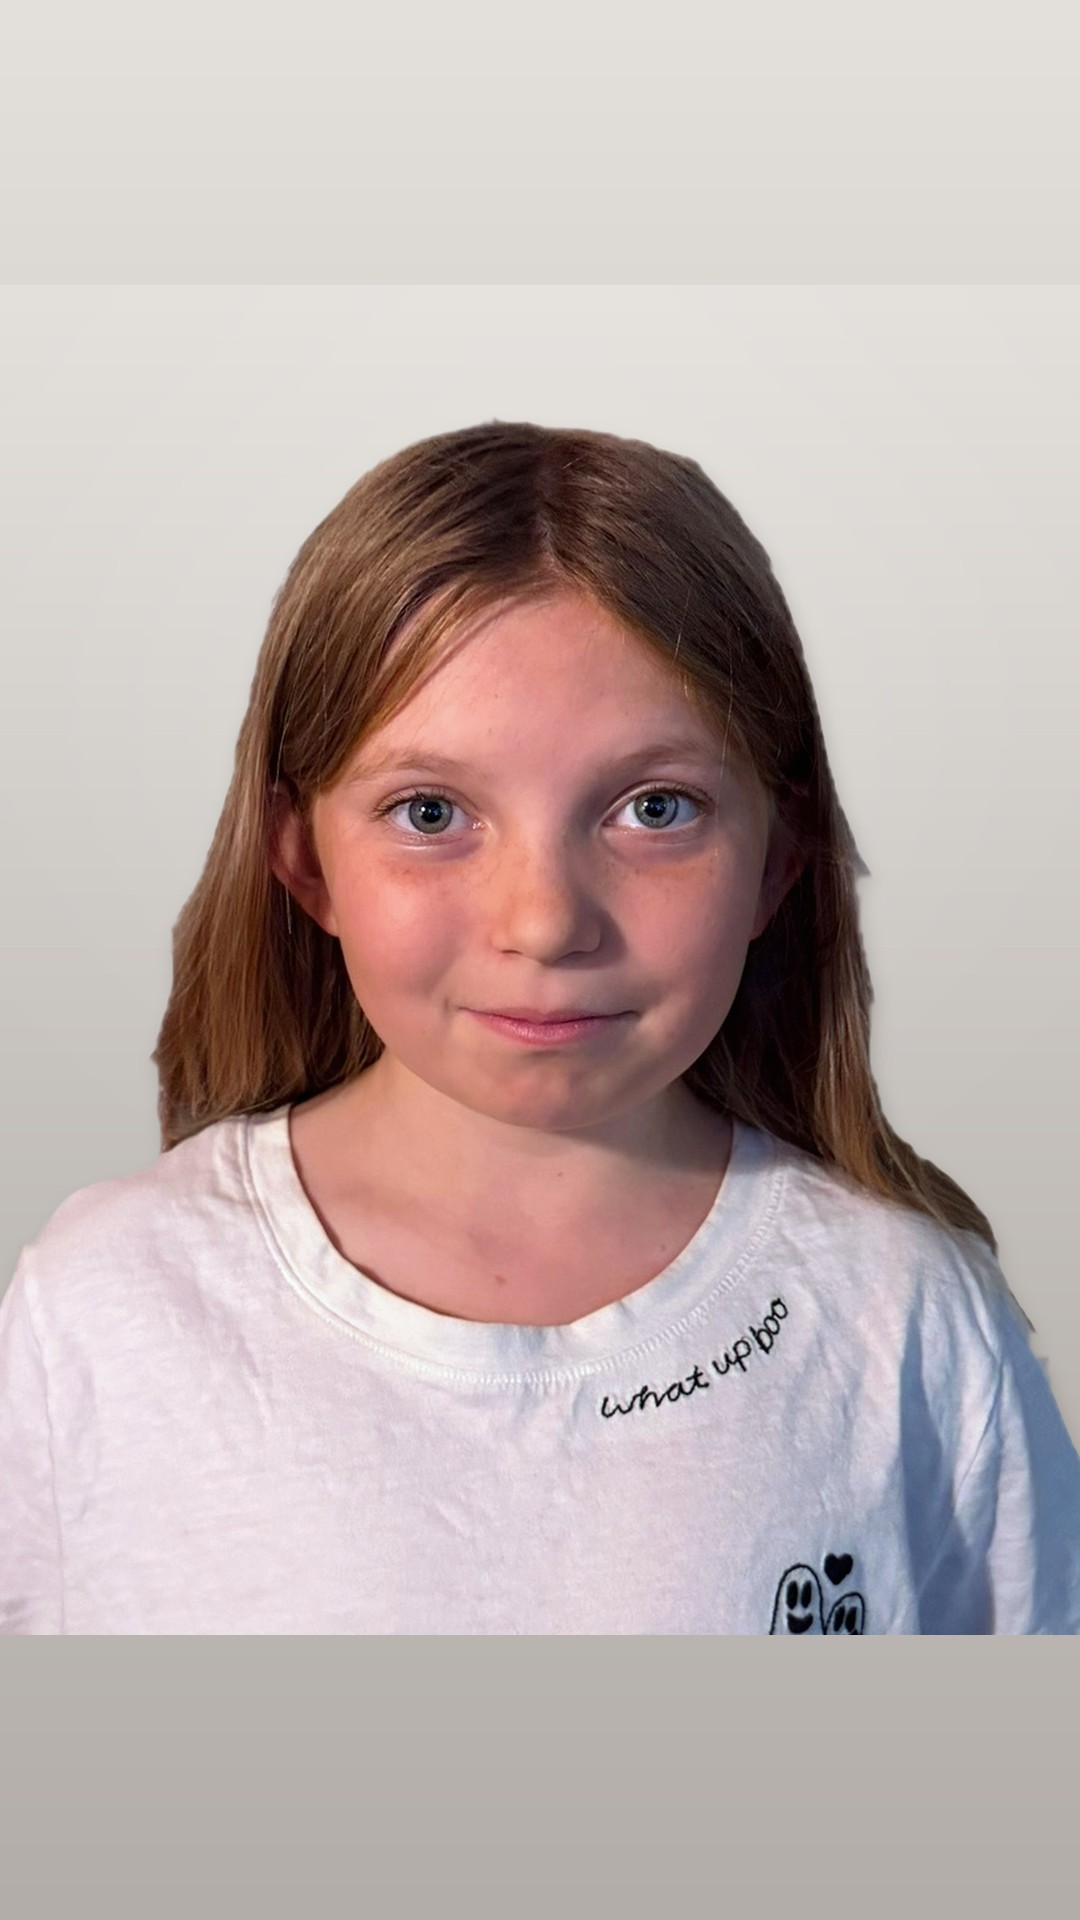
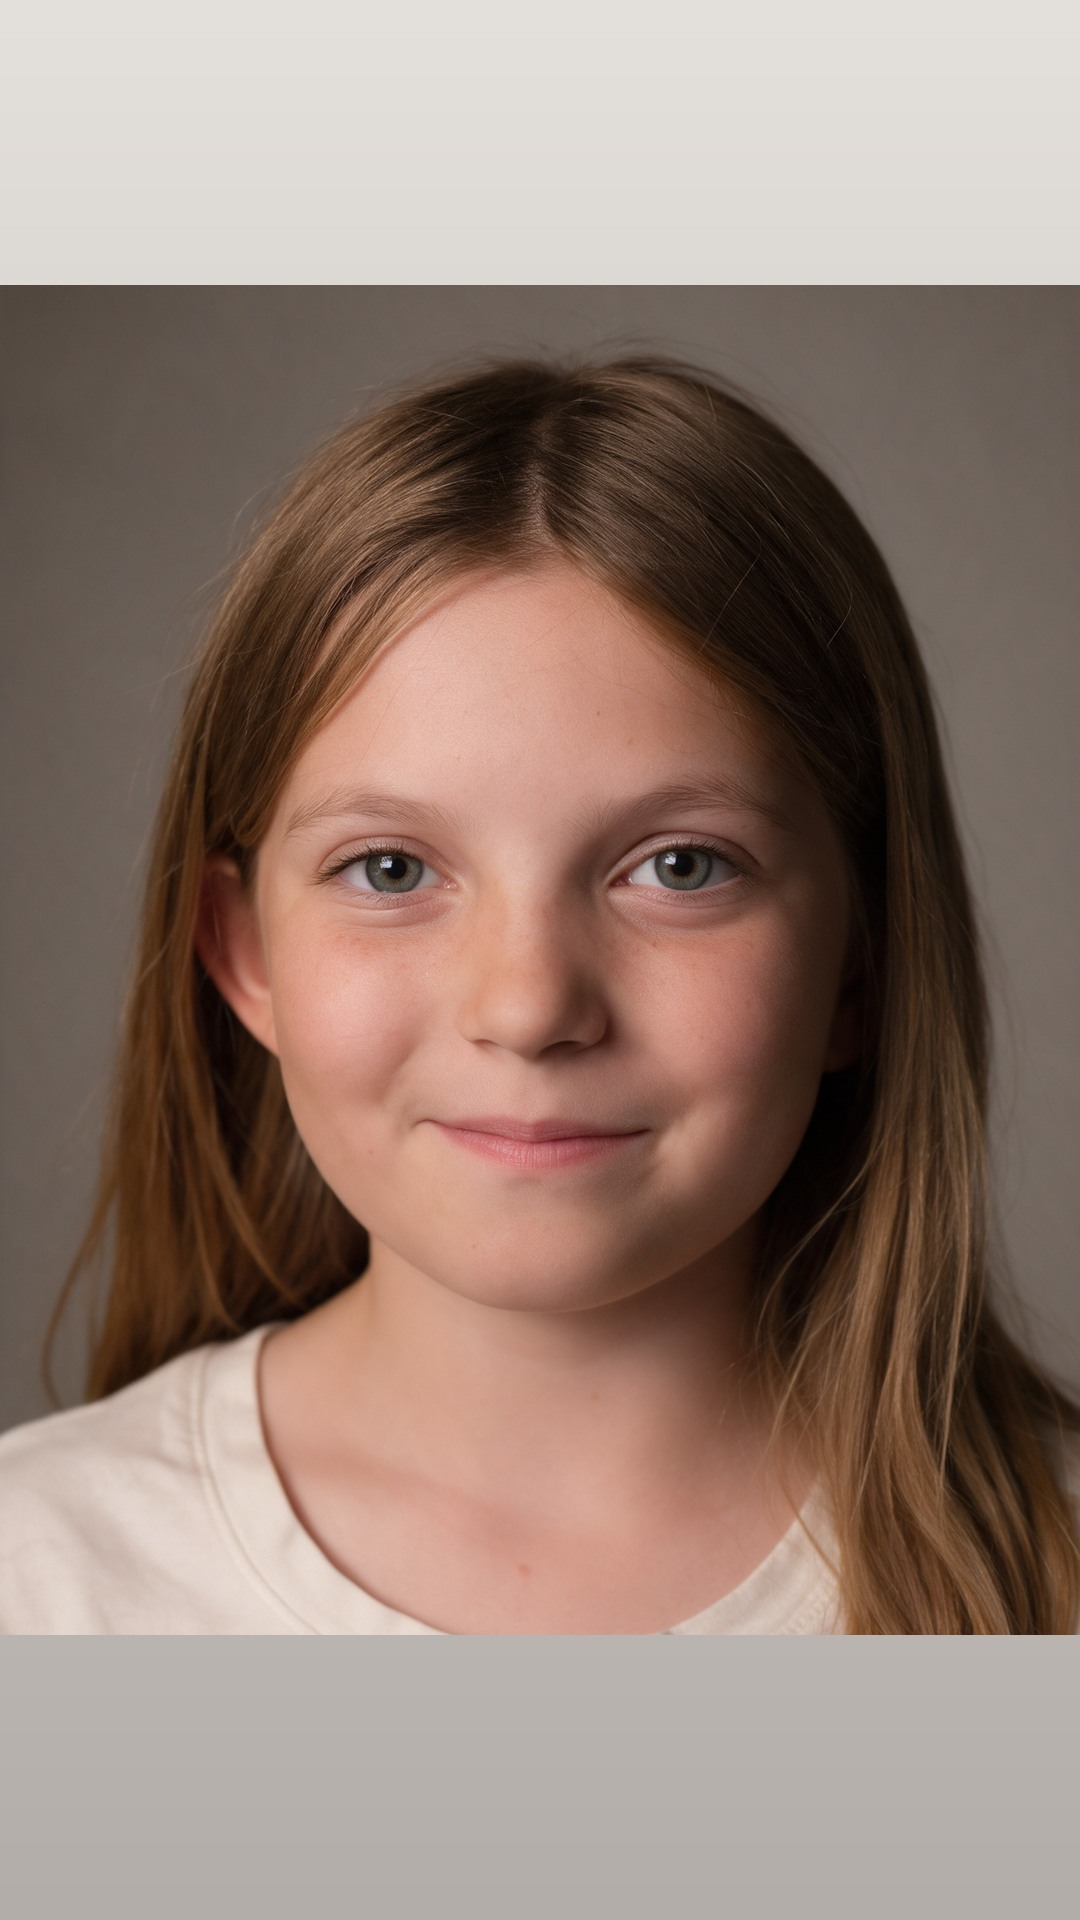
Batch 2: Wynter on camera section, casting profile, studio headshot sitewide
- new 'Wynter on camera' section directly under the hero, featuring the scripted
  Christmas Carol scene with the acting copy and its credit; no empty player
- casting profile block in Experience: name, age, height, hair, eyes, location,
  representation and availability. Union status, permit and Coogan account
  deliberately omitted as unverified
- site primary headshot switched to the studio portrait, matching the resume
- share card rebuilt on the same headshot
- Face and range spacing corrected: narrower headshot, text fills the column
- section numbering and navigation updated for the new section

diff --git a/index.html b/index.html
@@ -32,7 +32,7 @@
 </head>
 <body>
 
-<a class="skip" href="#about">Skip to content</a>
+<a class="skip" href="#oncamera">Skip to content</a>
 
 <header class="topbar" id="topbar">
   <div class="topbar__inner">
@@ -40,6 +40,7 @@
       <img src="assets/img/logo-transparent.png" alt="Wynter Pearce" width="900" height="381">
     </a>
     <nav class="nav" id="primaryNav" aria-label="Sections">
+      <a href="#oncamera">On camera</a>
       <a href="#about">About</a>
       <a href="#skills">Skills</a>
       <a href="#experience">Experience</a>
@@ -116,11 +117,33 @@
     </div>
   </section>
 
+  <!-- ============ WYNTER ON CAMERA ============ -->
+  <section class="band band--ink" id="oncamera">
+    <div class="wrap oncamera">
+      <div class="oncamera__copy reveal">
+        <p class="eyebrow">01 <span class="dot">·</span> On camera</p>
+        <h2 class="display">Wynter on camera</h2>
+        <p class="lede">From live theatre to on-camera storytelling, Wynter brings expressive performances, natural comedic timing, and a genuine enthusiasm for acting.</p>
+        <p class="oncamera__credit">Ghost of Christmas Present</p>
+        <p class="dim">The Little Town of Christmas <span class="dot">·</span> Golden Chain Theatre <span class="dot">·</span> 0:39 <span class="dot">·</span> scripted scene with live dialogue</p>
+      </div>
+      <div class="oncamera__player reveal">
+        <div class="frame frame--tight">
+          <video class="frame__video" controls playsinline preload="none"
+                 poster="assets/img/poster-christmas-scene.jpg"
+                 aria-label="Scripted scene: Wynter Pearce as the Ghost of Christmas Present">
+            <source src="assets/video/footage-christmas-scene.mp4" type="video/mp4">
+          </video>
+        </div>
+      </div>
+    </div>
+  </section>
+
   <!-- ============ ABOUT ============ -->
   <section class="band" id="about">
     <div class="wrap">
       <header class="shead reveal">
-        <p class="eyebrow">01 <span class="dot">·</span> About Wynter</p>
+        <p class="eyebrow">02 <span class="dot">·</span> About Wynter</p>
         <h2 class="display">About Wynter</h2>
       </header>
 
@@ -175,7 +198,7 @@
   <section class="band band--ink" id="skills">
     <div class="wrap">
       <header class="shead reveal">
-        <p class="eyebrow">02 <span class="dot">·</span> Special skills</p>
+        <p class="eyebrow">03 <span class="dot">·</span> Special skills</p>
         <h2 class="display">What she does</h2>
         <p class="lede">Skills are listed only where they are genuinely held, with footage where it exists.</p>
       </header>
@@ -192,10 +215,24 @@
   <section class="band band--alt" id="experience">
     <div class="wrap">
       <header class="shead shead--tight reveal">
-        <p class="eyebrow">03 <span class="dot">·</span> Experience</p>
+        <p class="eyebrow">04 <span class="dot">·</span> Experience</p>
         <h2 class="display">My experience</h2>
         <p class="lede">A few of the highlights so far in my journey.</p>
       </header>
+
+      <div class="castprofile reveal">
+        <h3 class="castprofile__title">Casting profile</h3>
+        <dl class="castprofile__list">
+          <div><dt>Name</dt><dd>Wynter Pearce</dd></div>
+          <div><dt>Age</dt><dd>9</dd></div>
+          <div><dt>Height</dt><dd>4&rsquo;4&quot;</dd></div>
+          <div><dt>Hair</dt><dd>Strawberry blonde</dd></div>
+          <div><dt>Eyes</dt><dd>Blue</dd></div>
+          <div><dt>Based in</dt><dd>Central California</dd></div>
+          <div><dt>Representation</dt><dd>Seeking theatrical &amp; commercial representation</dd></div>
+          <div><dt>Availability</dt><dd>Open to auditions throughout California &mdash; happy to travel</dd></div>
+        </dl>
+      </div>
 
       <div class="facts facts--ink specialties reveal" role="list" aria-label="What Wynter specialises in">
         <div class="fact" role="listitem">
@@ -266,7 +303,7 @@
   <section class="band" id="commercials">
     <div class="wrap">
       <header class="shead reveal">
-        <p class="eyebrow">04 <span class="dot">·</span> Commercial preview</p>
+        <p class="eyebrow">05 <span class="dot">·</span> Commercial preview</p>
         <h2 class="display">Commercial reads</h2>
         <p class="lede">Self-taped commercial auditions &mdash; a product read, an unboxing-style demonstration and a closing to camera.</p>
       </header>
@@ -311,7 +348,7 @@
   <section class="band band--alt" id="headshots">
     <div class="wrap">
       <header class="shead reveal">
-        <p class="eyebrow">05 <span class="dot">·</span> Face and range</p>
+        <p class="eyebrow">06 <span class="dot">·</span> Face and range</p>
         <h2 class="display">Face and range</h2>
         <p class="lede">A set of expressions captured in one session, showing the range she plays in.</p>
       </header>
@@ -343,7 +380,7 @@
   <section class="band" id="performances">
     <div class="wrap">
       <header class="shead reveal">
-        <p class="eyebrow">06 <span class="dot">·</span> On stage</p>
+        <p class="eyebrow">07 <span class="dot">·</span> On stage</p>
         <h2 class="display">On stage</h2>
         <p class="lede">Scripted theatre, musical numbers and ensemble work, filmed live in performance.</p>
       </header>
@@ -417,7 +454,7 @@
   <section class="band band--alt" id="contact">
     <div class="wrap">
       <header class="shead reveal">
-        <p class="eyebrow">07 <span class="dot">·</span> Enquiries</p>
+        <p class="eyebrow">08 <span class="dot">·</span> Enquiries</p>
         <h2 class="display">Professional enquiries</h2>
         <p class="lede">All casting, representation and production enquiries are handled by Wynter's parent.</p>
       </header>

diff --git a/assets/css/styles.css b/assets/css/styles.css
@@ -186,17 +186,40 @@ ul{margin:0; padding:0; list-style:none}
 .note{color:var(--grey); font-size:.84rem; max-width:74ch; margin-top:clamp(20px,3vw,32px); line-height:1.65}
 .band [id]{scroll-margin-top:calc(var(--bar) + 24px)}
 
+/* ---------- on camera ---------- */
+.oncamera{display:grid; grid-template-columns:1fr minmax(210px,290px); gap:clamp(28px,5vw,70px); align-items:center}
+.oncamera__copy h2{font-size:clamp(2rem,4.6vw,3.4rem); line-height:1.05; margin-bottom:clamp(14px,2vw,20px)}
+.oncamera .lede{margin-bottom:22px; max-width:46ch}
+.oncamera__credit{font-family:var(--display); font-size:clamp(1.05rem,1.7vw,1.3rem); color:#fff}
+.oncamera__player{width:100%; justify-self:center}
+.oncamera__player .frame--tight{width:min(290px,80%)}
+
+/* ---------- casting profile ---------- */
+.castprofile{
+  border-top:1px solid var(--hair); border-bottom:1px solid var(--hair);
+  padding:clamp(18px,2.4vw,26px) 0; margin-bottom:clamp(26px,4vw,44px);
+}
+.castprofile__title{
+  font-family:var(--text); font-weight:500; font-size:.7rem; letter-spacing:.22em;
+  text-transform:uppercase; color:var(--grey); margin-bottom:12px;
+}
+.castprofile__list{display:grid; grid-template-columns:repeat(4,1fr); gap:0; margin:0}
+.castprofile__list > div{padding:12px 18px 12px 0; border-right:1px solid var(--hair)}
+.castprofile__list > div:nth-child(4n){border-right:none}
+.castprofile dt{font-size:.58rem; letter-spacing:.18em; text-transform:uppercase; color:var(--grey); margin-bottom:5px}
+.castprofile dd{margin:0; font-size:.95rem; color:var(--ink); line-height:1.5}
+
 /* ---------- headshot lead ---------- */
 .hslead{
-  display:grid; grid-template-columns:minmax(200px,300px) 1fr;
-  gap:clamp(20px,3vw,44px); align-items:end; margin-bottom:clamp(26px,4vw,48px);
+  display:grid; grid-template-columns:minmax(190px,258px) 1fr;
+  gap:clamp(20px,3.4vw,52px); align-items:center; margin-bottom:clamp(26px,4vw,48px);
 }
 .hslead__shot{margin:0}
 .hslead__shot img{width:100%; height:auto; display:block; border-radius:3px}
 .hslead__shot figcaption{
   margin-top:10px; font-size:.7rem; letter-spacing:.18em; text-transform:uppercase; color:var(--grey);
 }
-.hslead__side p{color:var(--grey); max-width:54ch; font-size:.95rem}
+.hslead__side p{color:var(--grey); max-width:none; font-size:.97rem; line-height:1.72}
 .hslead__side p + p{margin-top:14px}
 
 /* ---------- headshots ---------- */
@@ -468,6 +491,11 @@ ul{margin:0; padding:0; list-style:none}
   .collage{grid-template-columns:repeat(2,1fr)}
   .hslead{grid-template-columns:1fr; gap:18px; align-items:start}
   .hslead__shot{max-width:320px}
+  .oncamera{grid-template-columns:1fr; gap:clamp(26px,6vw,40px)}
+  .oncamera__player{justify-self:start}
+  .castprofile__list{grid-template-columns:repeat(2,1fr)}
+  .castprofile__list > div{border-right:none; border-bottom:1px solid var(--hair); padding:12px 12px 12px 0}
+  .castprofile__list > div:nth-child(2n){padding-left:14px; border-left:1px solid var(--hair)}
   .contactcard{grid-template-columns:1fr; gap:18px}
   .expfoot{flex-direction:column; align-items:flex-start}
   .look figcaption,.look__slot span{font-size:.62rem; letter-spacing:.18em}
